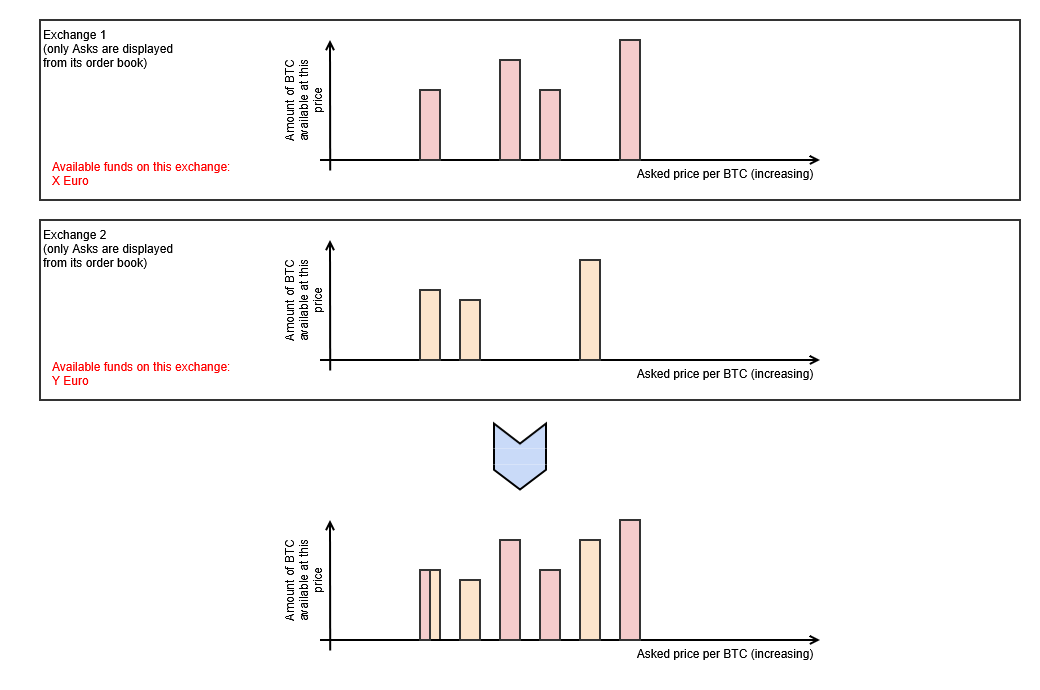
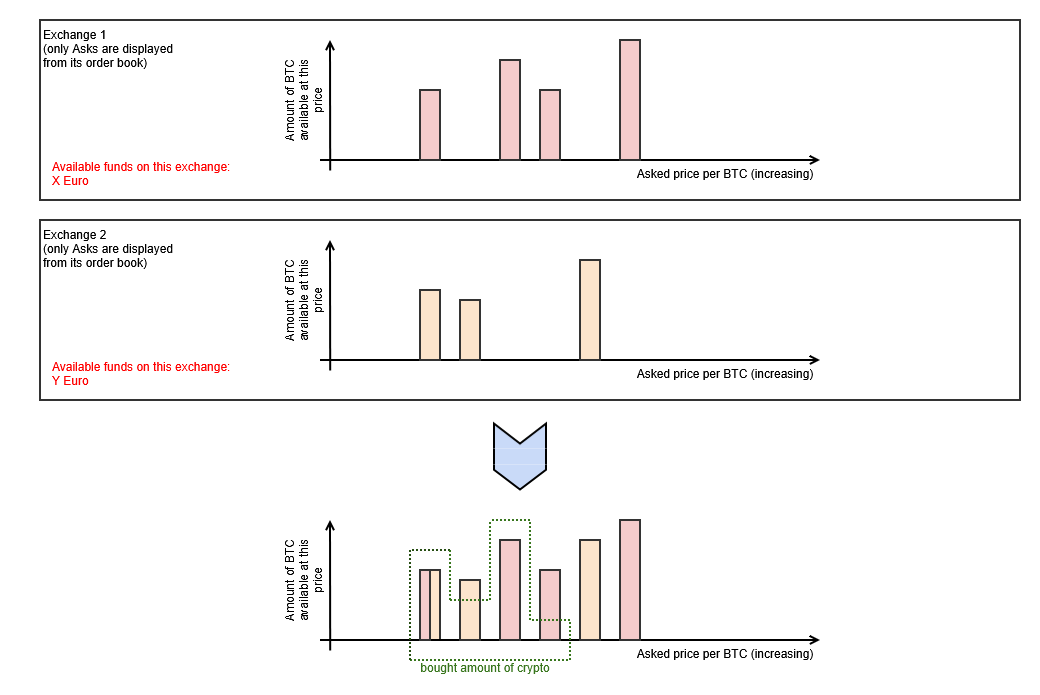
ADDED: some more details to the algorithm description

diff --git a/README.md b/README.md
@@ -45,6 +45,13 @@ For each Ask, it generates an order recommendation by checking:
 After processing all Asks, the algorithm returns a list of order recommendations and
 indicates whether the specified amount of cryptocurrency was fully bought or not.
 
+In the diagram, the green boxes represent the order recommendations for a specific example:
+- the first two Asks from both exchanges were bought fully
+- the second Ask from Exchange 2 was partially bought because there was not enough Euro on the exchange anymore
+- the second Ask from Exchange 1 was bought fully
+- the third Ask from Exchange 1 was partially bought because the specified amount of cryptocurrency was already reached
+- all other Asks were skipped
+
 For selling a specified amount of cryptocurrency at the highest possible price, the algorithm is similar.
 
 # Getting Started
